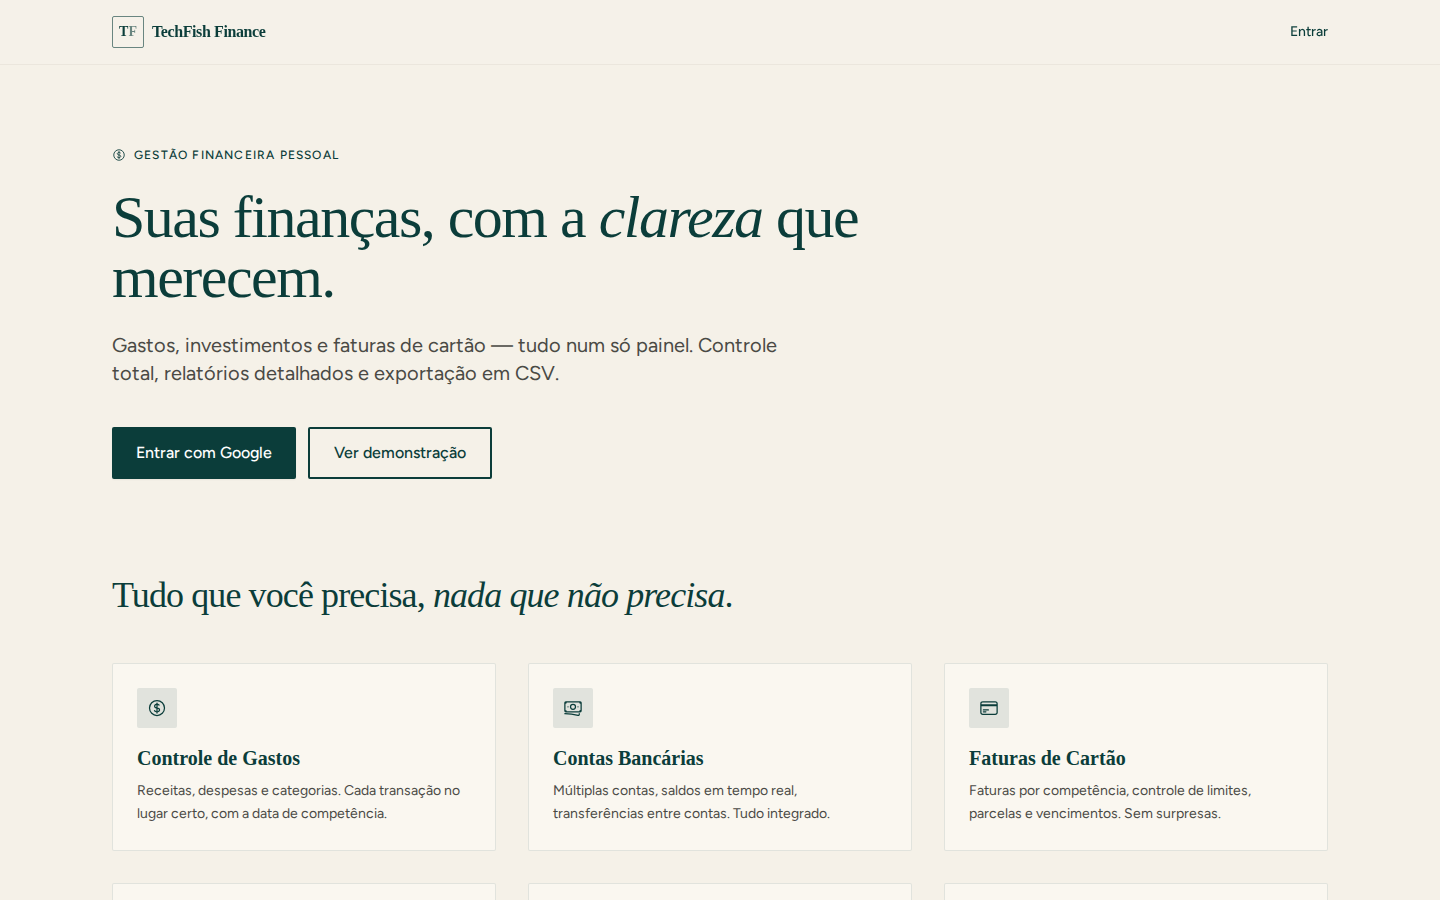
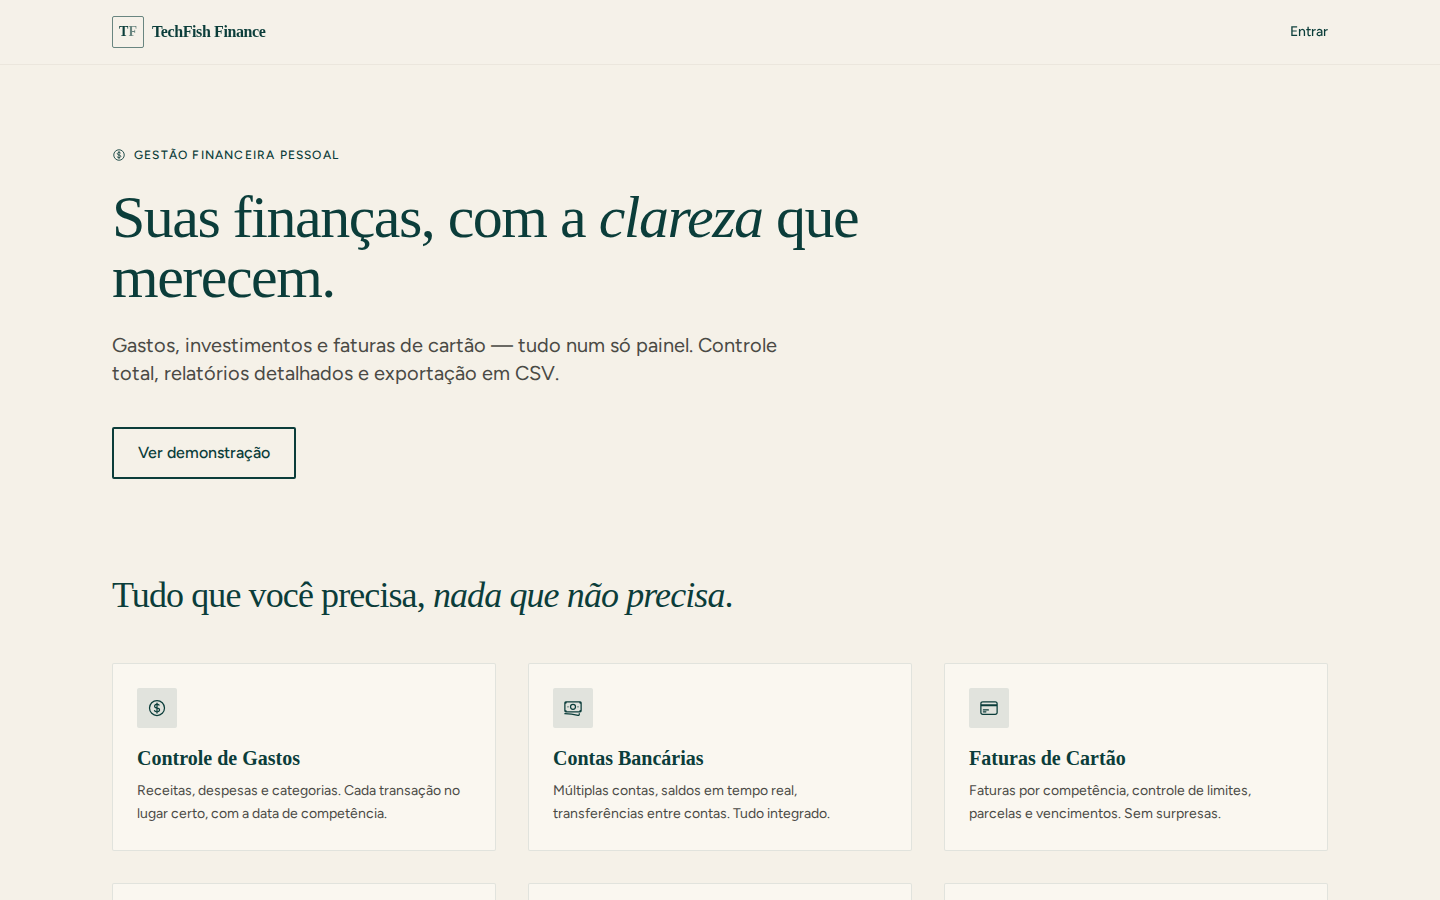
Demo com faturas pagas, sinal de menos único e transferências neutras no painel
- DemoSeeder paga cada fatura vencida (transferência da corrente para o
  cartão): o cartão mostra só a fatura aberta; o reset apaga de verdade
  (forceDelete), sem acumular linhas excluídas a cada dia
- Format::brl/brlCompact com o sinal tipográfico (−), como o brlSigned
- Transferências neutras ("origem → destino") nas transações recentes
- Imagens do README regeradas

Changed region(s): [[0.0625, 0.4667, 0.3438, 0.5289]]

diff --git a/resources/views/finance/dashboard.blade.php b/resources/views/finance/dashboard.blade.php
@@ -138,32 +138,38 @@
                     @else
                         <div class="space-y-4">
                             @foreach($recentTransactions as $transaction)
+                                @php
+                                    // Transferência entre contas próprias não é gasto: cor neutra e sem sinal
+                                    $style = [
+                                        'income' => ['icon' => 'bg-green-500/10 text-green-600', 'amount' => 'text-green-600', 'sign' => '+', 'path' => 'M12 6v6m0 0v6m0-6h6m-6 0H6'],
+                                        'expense' => ['icon' => 'bg-red-500/10 text-red-600', 'amount' => 'text-red-600', 'sign' => '−', 'path' => 'M18 12H6'],
+                                        'transfer' => ['icon' => 'bg-finance-base/10 text-finance-base', 'amount' => 'text-finance-base', 'sign' => '', 'path' => 'M7.5 21L3 16.5m0 0L7.5 12M3 16.5h13.5m0-13.5L21 7.5m0 0L16.5 12M21 7.5H7.5'],
+                                    ][$transaction->type] ?? ['icon' => 'bg-ink/5 text-ink-2', 'amount' => 'text-ink', 'sign' => '', 'path' => 'M18 12H6'];
+                                @endphp
                                 <div class="flex items-center justify-between p-3 bg-paper rounded-sm border border-finance-base/5">
                                     <div class="flex items-center">
-                                        <div class="w-10 h-10 {{ $transaction->type === 'income' ? 'bg-green-500/10' : 'bg-red-500/10' }} rounded-sm flex items-center justify-center mr-3">
-                                            @if($transaction->type === 'income')
-                                                <svg class="w-5 h-5 text-green-600" fill="none" stroke="currentColor" viewBox="0 0 24 24" stroke-width="1.5" stroke-linecap="round" stroke-linejoin="round">
-                                                    <path d="M12 6v6m0 0v6m0-6h6m-6 0H6" />
-                                                </svg>
-                                            @else
-                                                <svg class="w-5 h-5 text-red-600" fill="none" stroke="currentColor" viewBox="0 0 24 24" stroke-width="1.5" stroke-linecap="round" stroke-linejoin="round">
-                                                    <path d="M18 12H6" />
-                                                </svg>
-                                            @endif
+                                        <div class="w-10 h-10 {{ $style['icon'] }} rounded-sm flex items-center justify-center mr-3">
+                                            <svg class="w-5 h-5" fill="none" stroke="currentColor" viewBox="0 0 24 24" stroke-width="1.5" stroke-linecap="round" stroke-linejoin="round" aria-hidden="true">
+                                                <path d="{{ $style['path'] }}" />
+                                            </svg>
                                         </div>
                                         <div>
                                             <p class="text-sm font-medium text-ink">{{ $transaction->description }}</p>
                                             <p class="text-xs text-ink-2">
-                                                {{ $transaction->account->name }}
-                                                @if($transaction->category)
-                                                    · {{ $transaction->category->name }}
+                                                @if ($transaction->type === 'transfer')
+                                                    {{ $transaction->account->name }} → {{ $transaction->transferAccount?->name ?? 'outra conta' }}
+                                                @else
+                                                    {{ $transaction->account->name }}
+                                                    @if($transaction->category)
+                                                        · {{ $transaction->category->name }}
+                                                    @endif
                                                 @endif
                                             </p>
                                         </div>
                                     </div>
                                     <div class="text-right">
-                                        <p class="text-sm font-semibold {{ $transaction->type === 'income' ? 'text-green-600' : 'text-red-600' }} tabular-nums">
-                                            {{ $transaction->type === 'income' ? '+' : '-' }} {{ $money->format((float) $transaction->amount) }}
+                                        <p class="text-sm font-semibold {{ $style['amount'] }} tabular-nums">
+                                            {{ $style['sign'] }} {{ $money->format((float) $transaction->amount) }}
                                         </p>
                                         <p class="text-xs text-ink-2">{{ $transaction->formatted_date }}</p>
                                     </div>

diff --git a/database/seeders/DemoSeeder.php b/database/seeders/DemoSeeder.php
@@ -50,14 +50,18 @@ class DemoSeeder extends Seeder
         });
     }
 
+    /**
+     * Apaga de verdade (forceDelete) os dados da conta demo, inclusive os já excluídos:
+     * com soft delete, o reset diário deixaria linhas mortas acumulando no banco.
+     */
     private function resetData(User $user): void
     {
-        InvestmentDividend::where('user_id', $user->id)->delete();
-        InvestmentTransaction::where('user_id', $user->id)->delete();
+        InvestmentDividend::withTrashed()->where('user_id', $user->id)->forceDelete();
+        InvestmentTransaction::withTrashed()->where('user_id', $user->id)->forceDelete();
         Investment::withTrashed()->where('user_id', $user->id)->forceDelete();
-        Transaction::where('user_id', $user->id)->delete();
-        Account::where('user_id', $user->id)->delete();
-        FinancialCategory::where('user_id', $user->id)->delete();
+        Transaction::withTrashed()->where('user_id', $user->id)->forceDelete();
+        Account::withTrashed()->where('user_id', $user->id)->forceDelete();
+        FinancialCategory::where('user_id', $user->id)->delete(); // sem soft delete
     }
 
     /**
@@ -101,7 +105,9 @@ class DemoSeeder extends Seeder
 
     /**
      * Seis meses de movimento: salário e contas fixas na conta corrente,
-     * compras no cartão (com fatura por competência) e um aporte mensal na reserva.
+     * compras no cartão (com fatura por competência), um aporte mensal na reserva e
+     * o pagamento de cada fatura já vencida (transferência da corrente para o cartão),
+     * para o saldo do cartão mostrar só o que está em aberto.
      *
      * @param  array<string, Account>  $accounts
      * @param  array<string, FinancialCategory>  $categories
@@ -138,11 +144,26 @@ class DemoSeeder extends Seeder
                 'competency_date' => $month->toDateString(), 'bill_identifier' => $month->format('m/Y'),
                 'due_date' => $month->copy()->addMonth()->day(10)->toDateString(),
             ];
-            $add($card + ['description' => 'Supermercado', 'amount' => round(980 * $variation, 2), 'type' => 'expense', 'transaction_date' => $day(8), 'category_id' => $categories['Mercado']->id]);
-            $add($card + ['description' => 'Combustível', 'amount' => round(420 * $variation, 2), 'type' => 'expense', 'transaction_date' => $day(14), 'category_id' => $categories['Transporte']->id]);
-            $add($card + ['description' => 'Farmácia', 'amount' => round(160 * $variation, 2), 'type' => 'expense', 'transaction_date' => $day(17), 'category_id' => $categories['Saúde']->id]);
-            $add($card + ['description' => 'Restaurante', 'amount' => round(260 * $variation, 2), 'type' => 'expense', 'transaction_date' => $day(21), 'category_id' => $categories['Lazer']->id]);
-            $add($card + ['description' => 'Streaming e apps', 'amount' => 89.90, 'type' => 'expense', 'transaction_date' => $day(3), 'category_id' => $categories['Assinaturas']->id]);
+            $purchases = [
+                ['Supermercado', round(980 * $variation, 2), 8, 'Mercado'],
+                ['Combustível', round(420 * $variation, 2), 14, 'Transporte'],
+                ['Farmácia', round(160 * $variation, 2), 17, 'Saúde'],
+                ['Restaurante', round(260 * $variation, 2), 21, 'Lazer'],
+                ['Streaming e apps', 89.90, 3, 'Assinaturas'],
+            ];
+            foreach ($purchases as [$description, $amount, $purchaseDay, $category]) {
+                $add($card + ['description' => $description, 'amount' => $amount, 'type' => 'expense',
+                    'transaction_date' => $day($purchaseDay), 'category_id' => $categories[$category]->id]);
+            }
+
+            // Fatura já vencida: paga no vencimento com transferência da corrente para o cartão (R$)
+            $dueDate = Carbon::parse($card['due_date']);
+            if ($dueDate->lte(Carbon::today())) {
+                $add(['description' => 'Pagamento da fatura '.$card['bill_identifier'], 'type' => 'transfer',
+                    'amount' => round(array_sum(array_column($purchases, 1)), 2), 'transaction_date' => $dueDate->toDateString(),
+                    'account_id' => $accounts['corrente']->id, 'transfer_account_id' => $accounts['cartao']->id,
+                    'payment_method' => 'bank_transfer']);
+            }
         }
     }
 

diff --git a/app/Support/Format.php b/app/Support/Format.php
@@ -13,16 +13,18 @@ namespace App\Support;
  *  - Sempre em PT-BR (BRL, vírgula decimal, ponto de milhar).
  *  - Explicitar unidades (R$) — nunca confiar em cast silencioso.
  *  - Métodos puros, sem dependência de request/session (testáveis direto).
+ *  - Negativo usa o sinal de menos tipográfico (−, U+2212) em todos os formatos de R$,
+ *    para saldo e variação aparecerem iguais na mesma tela. Exportações (CSV) não passam por aqui.
  */
 class Format
 {
     /**
-     * Formata um valor monetário em BRL completo: "R$ 1.234,56".
+     * Formata um valor monetário em BRL completo: "R$ 1.234,56" / "R$ −1.234,56".
      * Use em saldos, totais, faturas — onde os centavos importam.
      */
     public static function brl(float $valor): string
     {
-        return 'R$ '.number_format($valor, 2, ',', '.');
+        return self::money($valor, 2, '');
     }
 
     /**
@@ -33,20 +35,31 @@ class Format
      */
     public static function brlCompact(float $valor): string
     {
-        return 'R$ '.number_format(round($valor), 0, ',', '.');
+        return self::money(round($valor), 0, '');
     }
 
     /**
-     * Formata um valor com sinal explícito: "R$ +1.234,56" / "R$ -1.234,56".
+     * Formata um valor com sinal explícito: "R$ +1.234,56" / "R$ −1.234,56".
      * Use em deltas, variações mensais, fluxo de caixa — onde a direção
      * do número é tão importante quanto o valor.
      */
     public static function brlSigned(float $valor): string
     {
-        $sinal = $valor > 0 ? '+' : ($valor < 0 ? '−' : '');
+        return self::money($valor, 2, '+');
+    }
 
-        // number_format preserva o sinal; só precisamos prefixar com +/−
-        return 'R$ '.$sinal.number_format(abs($valor), 2, ',', '.');
+    /**
+     * "R$ " + sinal + valor absoluto. Sinal decidido pelo valor já arredondado:
+     * -0,004 vira "R$ 0,00" (e não "R$ −0,00").
+     *
+     * @param  string  $positiveSign  prefixo dos positivos ('' ou '+')
+     */
+    private static function money(float $valor, int $decimals, string $positiveSign): string
+    {
+        $rounded = round($valor, $decimals);
+        $sinal = $rounded > 0 ? $positiveSign : ($rounded < 0 ? '−' : '');
+
+        return 'R$ '.$sinal.number_format(abs($rounded), $decimals, ',', '.');
     }
 
     /**

diff --git a/tests/Feature/Auth/DemoLoginTest.php b/tests/Feature/Auth/DemoLoginTest.php
@@ -55,12 +55,21 @@ class DemoLoginTest extends TestCase
 
         $this->assertSame(1, User::where('email', config('demo.email'))->count());
         $this->assertSame(3, Account::where('user_id', $demo->id)->count());
+        // O reset apaga de verdade: nada de linhas excluídas acumulando a cada execução
+        $this->assertSame(3, Account::withTrashed()->where('user_id', $demo->id)->count());
+        $this->assertSame(Transaction::where('user_id', $demo->id)->count(), Transaction::withTrashed()->where('user_id', $demo->id)->count());
         $this->assertGreaterThan(40, Transaction::where('user_id', $demo->id)->count());
         $this->assertSame(4, Investment::where('user_id', $demo->id)->count());
 
         // Saldo recalculado a partir das transações (não o inicial)
         $checking = Account::where('user_id', $demo->id)->where('type', 'checking')->firstOrFail();
         $this->assertNotEquals((float) $checking->initial_balance, (float) $checking->current_balance);
+
+        // Faturas vencidas pagas pela corrente: o cartão deve só a fatura aberta (não os 6 meses)
+        $card = Account::where('user_id', $demo->id)->where('type', 'credit_card')->firstOrFail();
+        $openBills = Transaction::where('account_id', $card->id)->where('type', 'expense')
+            ->where('due_date', '>', now()->toDateString())->sum('amount');
+        $this->assertEqualsWithDelta(-(float) $openBills, (float) $card->current_balance, 0.01);
 
         $this->actingAs($demo)->get(route('finance.bills.index'))->assertOk();
         $this->actingAs($demo)->get(route('investment.dashboard'))->assertOk();

diff --git a/tests/Unit/FormatTest.php b/tests/Unit/FormatTest.php
@@ -19,7 +19,9 @@ class FormatTest extends TestCase
     {
         $this->assertSame('R$ 1.234,56', Format::brl(1234.56));
         $this->assertSame('R$ 0,00', Format::brl(0.0));
-        $this->assertSame('R$ -1.000,00', Format::brl(-1000.0));
+        $this->assertSame('R$ −1.000,00', Format::brl(-1000.0));
+        // Arredondou para zero: sem sinal
+        $this->assertSame('R$ 0,00', Format::brl(-0.004));
     }
 
     public function test_brl_arredonda_para_duas_casas(): void
@@ -34,7 +36,8 @@ class FormatTest extends TestCase
         // 1234.4 arredonda para 1234 (não estoura)
         $this->assertSame('R$ 1.234', Format::brlCompact(1234.4));
         $this->assertSame('R$ 0', Format::brlCompact(0.0));
-        $this->assertSame('R$ -1.000', Format::brlCompact(-1000.4));
+        $this->assertSame('R$ −1.000', Format::brlCompact(-1000.4));
+        $this->assertSame('R$ 0', Format::brlCompact(-0.4));
     }
 
     public function test_brl_compact_arredonda_para_inteiro(): void
@@ -49,6 +52,8 @@ class FormatTest extends TestCase
         // Sinal negativo usa U+2212 (minus sign tipográfico), não hífen
         $this->assertSame('R$ −1.234,56', Format::brlSigned(-1234.56));
         $this->assertSame('R$ 0,00', Format::brlSigned(0.0));
+        // Saldo e variação negativos usam o mesmo sinal
+        $this->assertSame(Format::brl(-11459.40), Format::brlSigned(-11459.40));
     }
 
     public function test_percent_format_com_virgula_decimal(): void

diff --git a/tests/Feature/Finance/DashboardTest.php b/tests/Feature/Finance/DashboardTest.php
@@ -193,4 +193,24 @@ class DashboardTest extends TestCase
             ->assertSee('Conta corrente')
             ->assertDontSee('>checking<', false);
     }
+
+    /**
+     * Transferência entre contas próprias não é despesa: aparece neutra, com origem → destino.
+     */
+    public function test_recent_transfer_is_shown_as_transfer_not_expense(): void
+    {
+        $user = User::factory()->create();
+        $checking = Account::factory()->create(['user_id' => $user->id, 'name' => 'Corrente X']);
+        $savings = Account::factory()->create(['user_id' => $user->id, 'name' => 'Reserva Y']);
+        Transaction::factory()->create([
+            'user_id' => $user->id, 'account_id' => $checking->id, 'transfer_account_id' => $savings->id,
+            'type' => 'transfer', 'amount' => 800, 'description' => 'Aporte',
+        ]);
+
+        $this->actingAs($user)->get(route('finance.dashboard'))
+            ->assertOk()
+            ->assertSee('Corrente X → Reserva Y')
+            ->assertDontSee('− R$ 800,00', false)
+            ->assertDontSee('- R$ 800,00', false);
+    }
 }

diff --git a/tests/Unit/MoneyTest.php b/tests/Unit/MoneyTest.php
@@ -26,7 +26,7 @@ class MoneyTest extends TestCase
 
         $this->assertSame('R$ 1.234,56', $money->format(1234.56));
         $this->assertSame('R$ 0,00', $money->format(0.0));
-        $this->assertSame('R$ -1.000,00', $money->format(-1000.0));
+        $this->assertSame('R$ −1.000,00', $money->format(-1000.0));
     }
 
     public function test_format_returns_mask_when_hidden(): void

diff --git a/app/Http/Controllers/Finance/FinanceController.php b/app/Http/Controllers/Finance/FinanceController.php
@@ -40,7 +40,7 @@ class FinanceController extends Controller
 
         // Transações recentes
         $recentTransactions = Transaction::forUser($user->id)
-            ->with(['account', 'category'])
+            ->with(['account', 'category', 'transferAccount'])
             ->orderBy('transaction_date', 'desc')
             ->orderBy('created_at', 'desc')
             ->limit(10)
